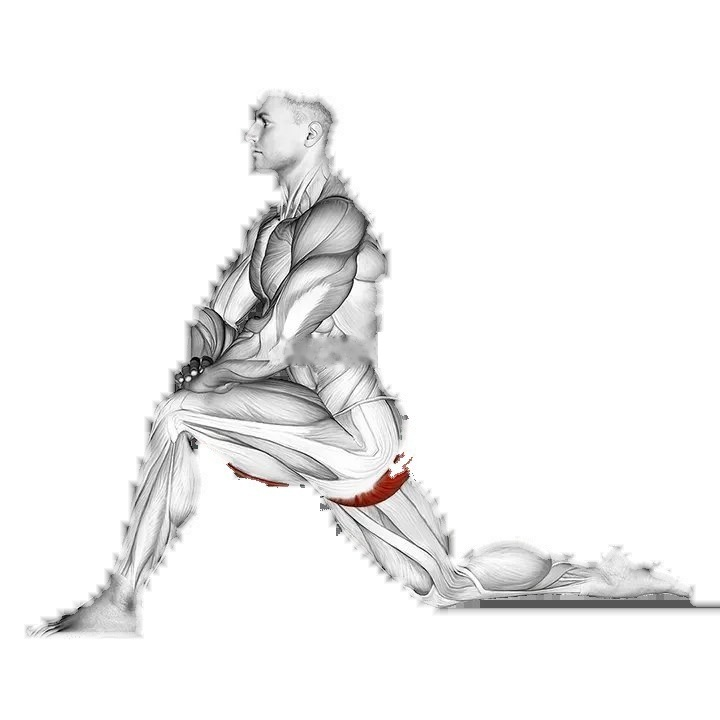
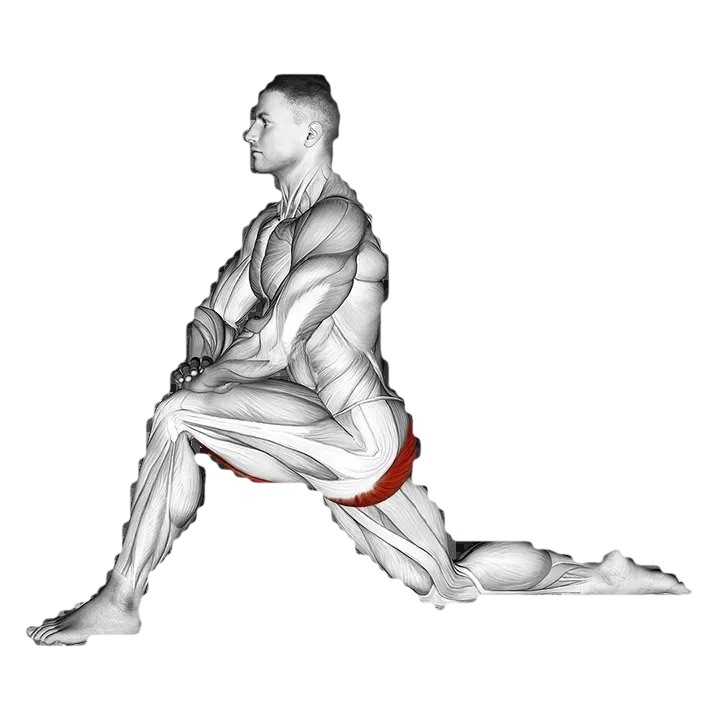
v2.5.2: clean edges on warm-up/stretch/hold photos, white backgrounds
Claude-Session: https://claude.ai/code/session_014g71DyEeCKmAZKp2pYzpwr

diff --git a/index.html b/index.html
@@ -659,7 +659,7 @@
   // Bump this (e.g. 2.3.0 -> 2.4.0) and CACHE_NAME in service-worker.js on every deploy —
   // shown at the bottom of Settings so you can tell at a glance whether a
   // given phone has actually picked up the latest push.
-  var APP_VERSION = "2.5.1";
+  var APP_VERSION = "2.5.2";
 
   /* ============================================================
      DATA

diff --git a/service-worker.js b/service-worker.js
@@ -20,7 +20,7 @@
 // "Add to Home Screen" standalone mode — the message to the waiting worker
 // could silently never arrive, leaving the update stuck forever. This
 // avoids that failure mode entirely.)
-const CACHE_NAME = "ironclad-v42";
+const CACHE_NAME = "ironclad-v43";
 const APP_SHELL = [
   "./",
   "./index.html",
